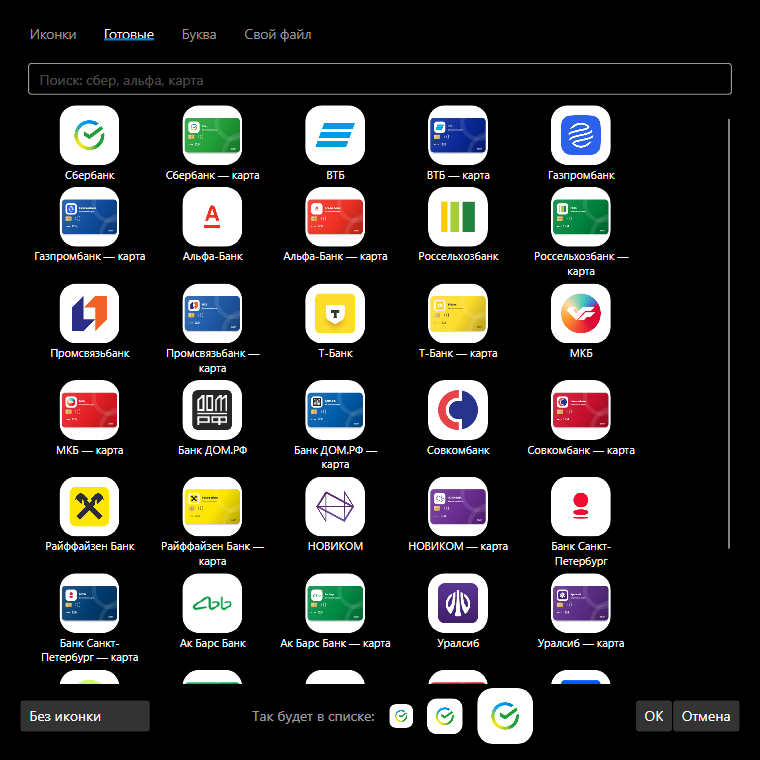
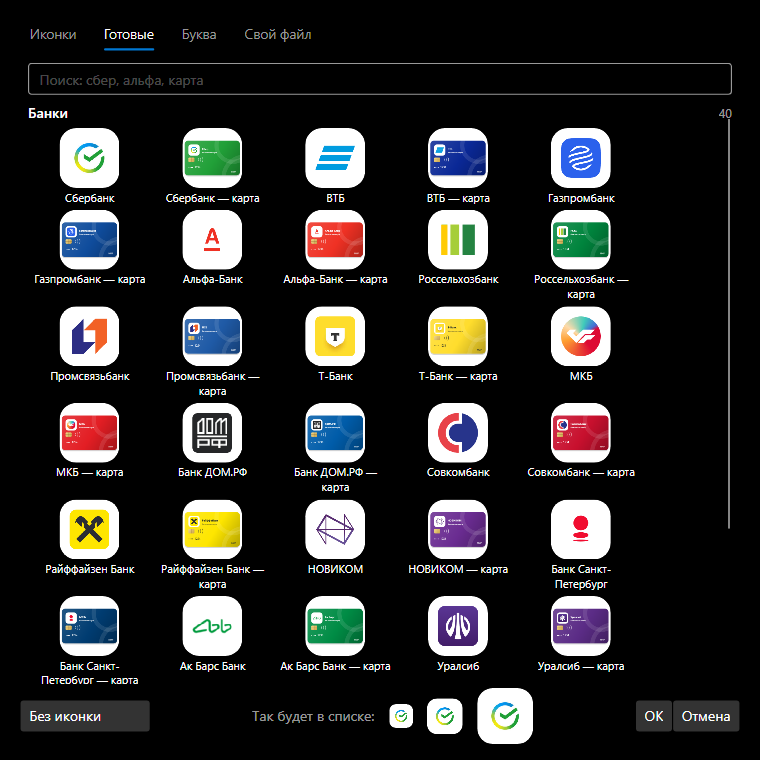
grouped packs

diff --git a/src/FamilyMoney.Navigation/Services/PackCatalog.cs b/src/FamilyMoney.Navigation/Services/PackCatalog.cs
@@ -17,6 +17,12 @@ public sealed record PackAssetView(
     string Spec,
     Uri Uri);
 
+/// <summary>Группа готовых картинок — один поставляемый набор («Банки», «Бизнес»…).</summary>
+public sealed record PackGroupView(string Id, string Title, IReadOnlyList<PackAssetView> Assets)
+{
+    public int Count => Assets.Count;
+}
+
 /// <summary>
 /// Читает поставленные с приложением наборы картинок. Сейчас известен один
 /// набор — banks; новые добавляются в KnownPacks и в Assets/Packs.
@@ -29,10 +35,13 @@ public sealed class PackCatalog
 
     private readonly Dictionary<string, PackAssetView> _byKey = new(StringComparer.OrdinalIgnoreCase);
     private readonly List<PackAssetView> _assets = [];
+    private readonly List<PackGroupView> _groups = [];
 
     public static PackCatalog Instance => LazyInstance.Value;
 
     public IReadOnlyList<PackAssetView> Assets => _assets;
+
+    public IReadOnlyList<PackGroupView> Groups => _groups;
 
     private PackCatalog()
     {
@@ -82,6 +91,15 @@ public sealed class PackCatalog
 
                 _assets.Add(view);
                 _byKey[$"{packId}/{asset.Id}"] = view;
+            }
+
+            var groupTitle = string.IsNullOrWhiteSpace(manifest.Title) ? packId : manifest.Title;
+            var groupAssets = _assets
+                .Where(asset => string.Equals(asset.PackId, packId, StringComparison.OrdinalIgnoreCase))
+                .ToList();
+            if (groupAssets.Count > 0)
+            {
+                _groups.Add(new PackGroupView(packId, groupTitle, groupAssets));
             }
         }
         catch (Exception)

diff --git a/src/FamilyMoney.Navigation/ViewModels/IconPickerViewModel.cs b/src/FamilyMoney.Navigation/ViewModels/IconPickerViewModel.cs
@@ -54,7 +54,7 @@ public sealed class IconPickerViewModel : INotifyPropertyChanged
 
     public ObservableCollection<IconChoice> Icons { get; } = [];
 
-    public ObservableCollection<PackAssetView> ReadyAssets { get; } = [];
+    public ObservableCollection<PackGroupView> ReadyGroups { get; } = [];
 
     public ObservableCollection<string> Colors { get; }
 
@@ -276,17 +276,23 @@ public sealed class IconPickerViewModel : INotifyPropertyChanged
             }
         }
 
-        ReadyAssets.Clear();
-        foreach (var asset in PackCatalog.Instance.Assets)
+        ReadyGroups.Clear();
+        foreach (var group in PackCatalog.Instance.Groups)
         {
-            if (query.Length == 0 || Matches(asset, query))
+            var groupMatches = query.Length == 0
+                || group.Title.Contains(query, StringComparison.OrdinalIgnoreCase)
+                || group.Id.Contains(query, StringComparison.OrdinalIgnoreCase);
+            var assets = groupMatches
+                ? group.Assets.ToList()
+                : group.Assets.Where(asset => Matches(asset, query)).ToList();
+            if (assets.Count > 0)
             {
-                ReadyAssets.Add(asset);
+                ReadyGroups.Add(new PackGroupView(group.Id, group.Title, assets));
             }
         }
 
         OnPropertyChanged(nameof(Icons));
-        OnPropertyChanged(nameof(ReadyAssets));
+        OnPropertyChanged(nameof(ReadyGroups));
         OnPropertyChanged(nameof(SearchPlaceholder));
         OnPropertyChanged(nameof(AllIconsHint));
         OnPropertyChanged(nameof(HasMoreAllIcons));

diff --git a/docs/entity-icons.md b/docs/entity-icons.md
@@ -625,8 +625,10 @@ void RemoveImage(Guid id); // FileStorage.Delete + EnqueueImageDelete
 - принимать новые картинки через merge request;
 - использовать одну и ту же картинку на всех устройствах без загрузки файла.
 
-Наборы — не только банки: группы «Банки», «Карты», «Иллюстрации» и т.п.
-Логотипы банков — один из возможных наборов, а не единственный смысл раздела.
+Наборы — не только банки: «Банки», «Бизнес», «Продукты», «Транспорт» и т.п.
+Каждый набор — отдельный каталог с манифестом; в пикере он показывается
+отдельной группой. Логотипы банков — один из наборов, а не единственный смысл
+раздела.
 
 ### 8.2 Структура
 
@@ -638,7 +640,17 @@ src/FamilyMoney.Navigation/Assets/Packs/
     tbank.png
     alfa.png
     ...
+  business/
+    pack.json
+    ...
+  products/
+    pack.json
+    ...
 ```
+
+Новая группа — это новый каталог с `pack.json` и заголовком `title`
+(«Бизнес», «Продукты», «Транспорт»); его id добавляется в `KnownPacks` в
+`PackCatalog`. Существующие `pack:`-ссылки не меняются.
 
 `pack.json`:
 
@@ -688,8 +700,10 @@ src/FamilyMoney.Navigation/Assets/Packs/
 ### 8.4 Пикер и подсказки
 
 - вкладка «Готовые» видна для счетов и категорий;
-- внутри — группы; для счетов «Банки» идёт первой, для категорий — иллюстрации
-  и другие наборы;
+- внутри — группы по `title` каждого набора: сейчас «Банки» (40 картинок),
+  дальше «Бизнес», «Продукты», «Транспорт» и т.д.;
+- у группы виден заголовок и количество картинок; поиск фильтрует и группы,
+  и картинки;
 - сетка картинок, поиск по `name`/`aliases`;
 - `IconSuggester` для счетов: если название содержит банковский алиас —
   рекомендует `pack:banks/...`;
@@ -788,7 +802,8 @@ src/FamilyMoney.Navigation/Assets/Packs/
   `IconCatalog`.
 - `Navigation/Controls/IconBadge` — картинка, `pack:`, буква, Material-иконка,
   цветной бейдж и fallback.
-- `Navigation/Services/PackCatalog` — чтение `pack.json` и ассетов.
+- `Navigation/Services/PackCatalog` — чтение `pack.json`, ассетов и групп
+  по `title` набора.
 - `Navigation/ViewModels/IconPickerViewModel` и
   `Desktop/Views/IconPickerWindow` — вкладки, поиск, палитра, превью.
 - `Utils/ImageNormalizer` — EXIF-ориентация, квадрат 256×256, PNG/JPEG,
